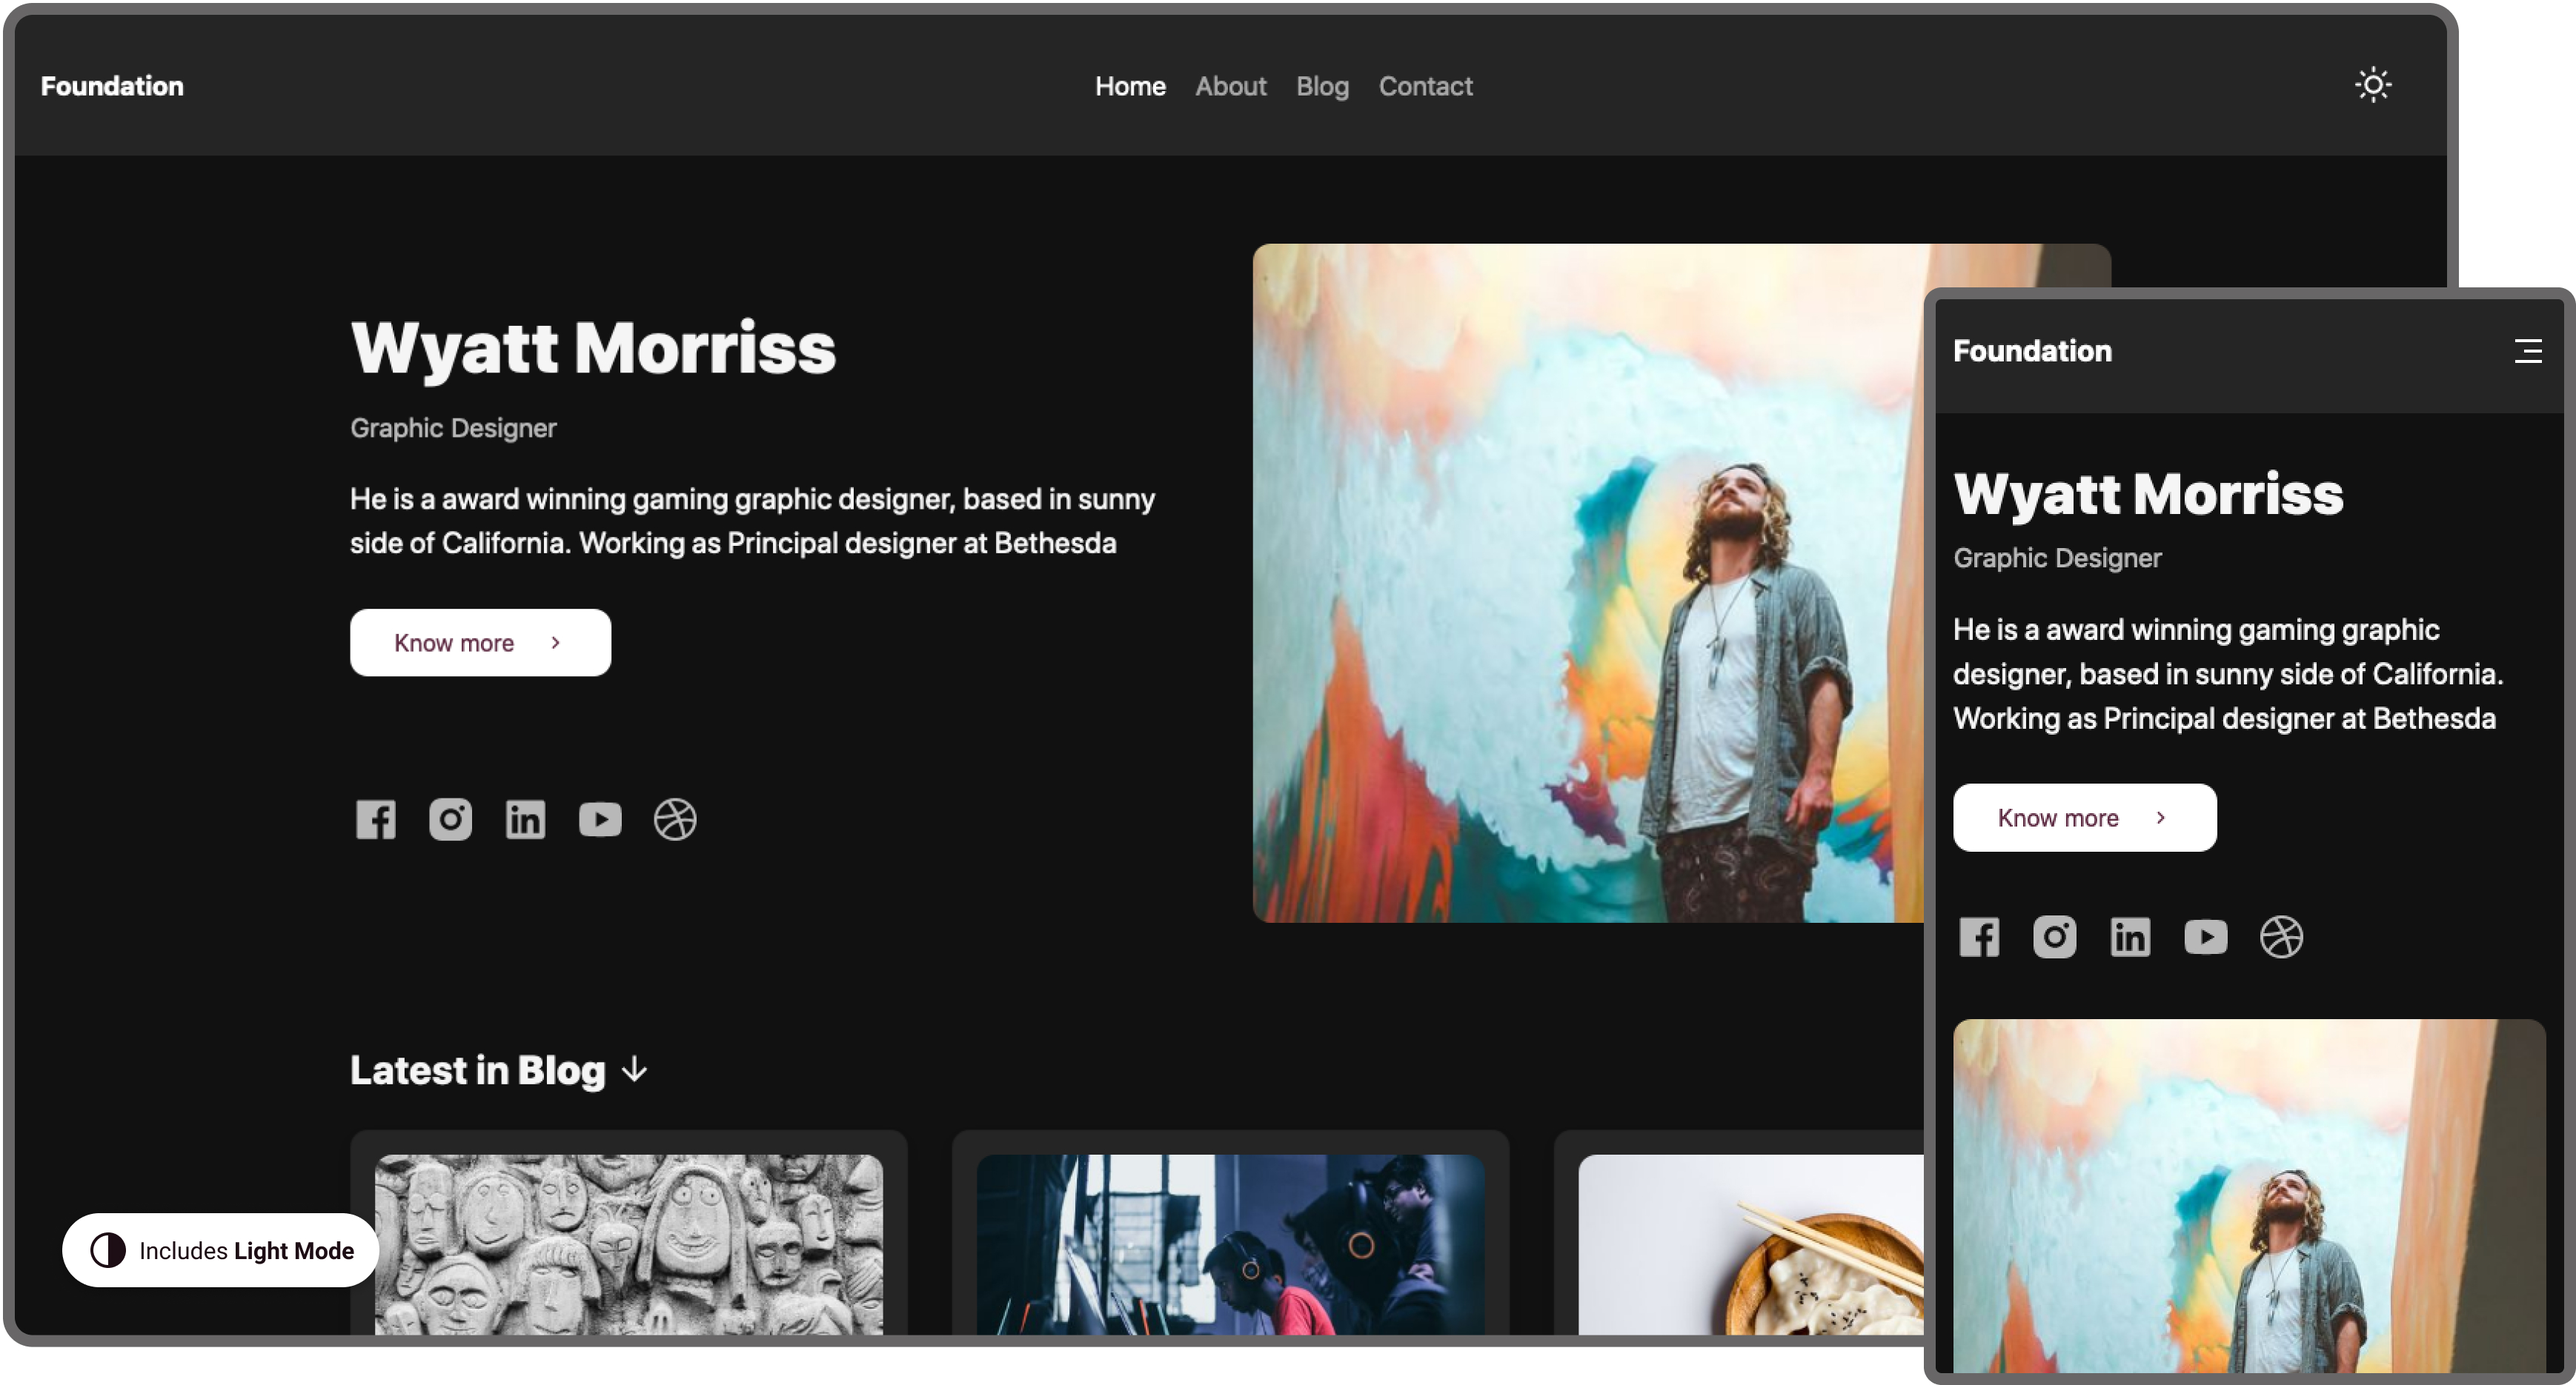
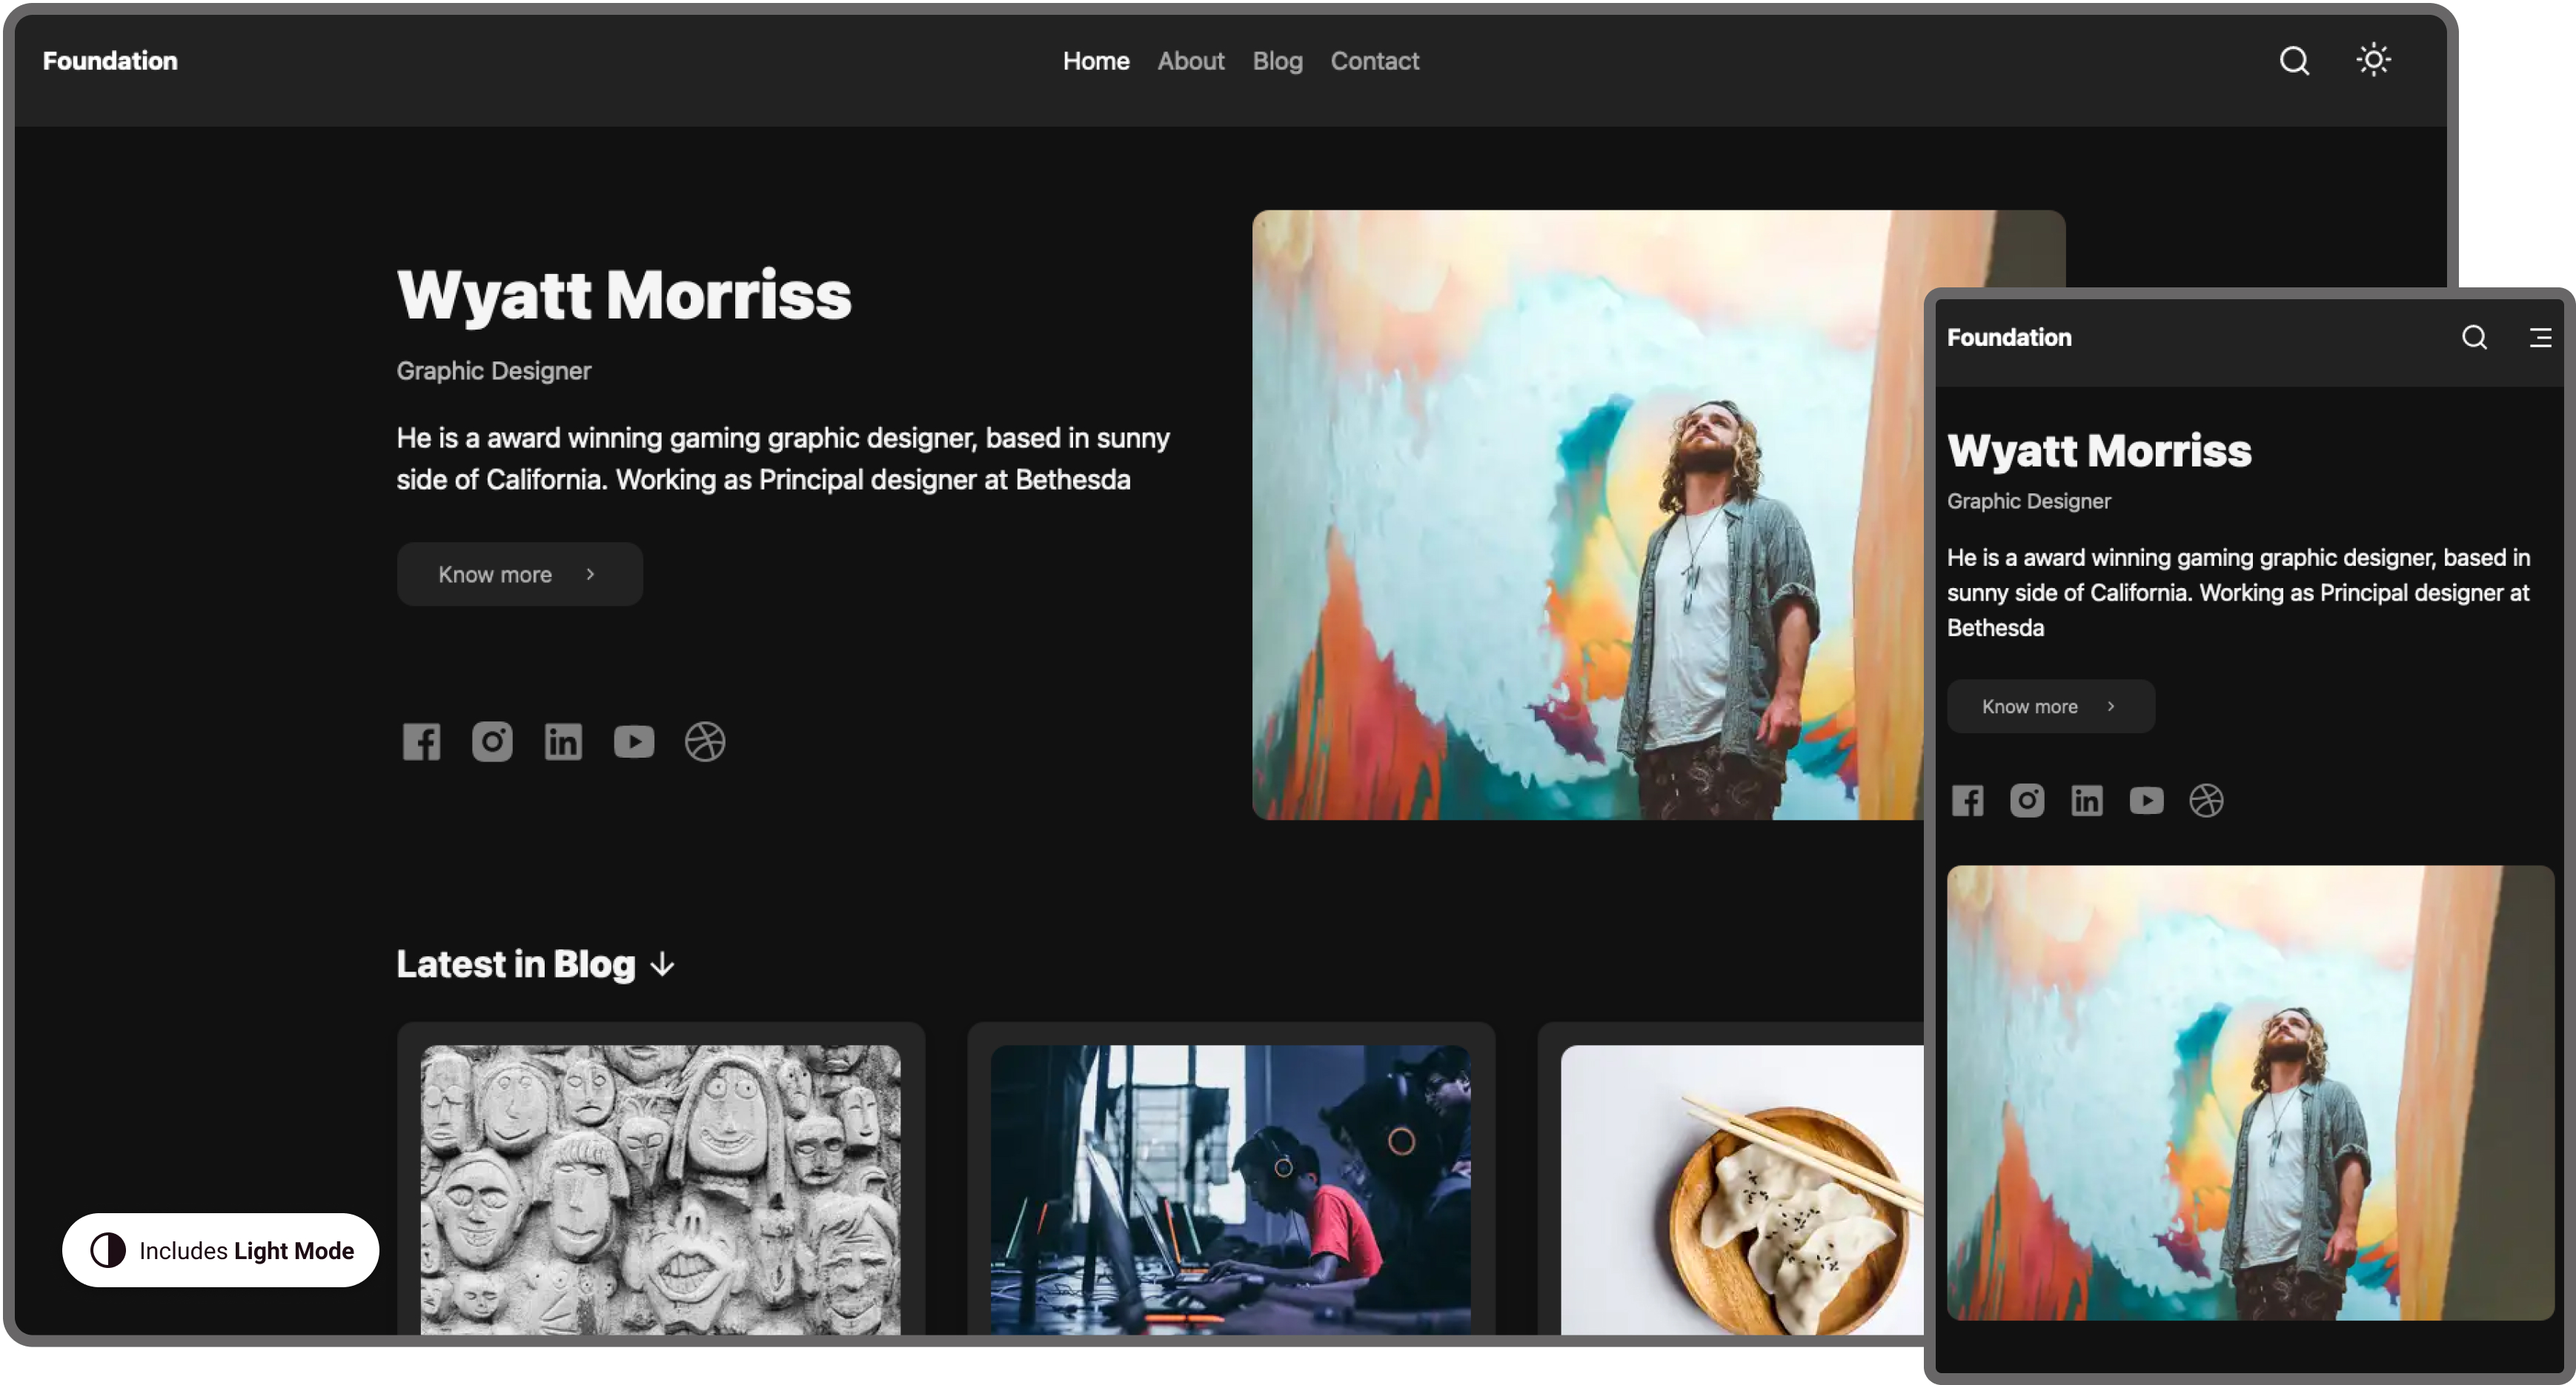
updated foundation

diff --git a/README.md b/README.md
@@ -21,6 +21,12 @@ Need help launching your website? My DM's are open on <a href="https://twitter.c
 - A Blog and Personal website with Netlify CMS.
 - Responsive Web Design
 - Dark / Light Mode
+- Customize theme color from CMS
+
+    ![gatsby-starter-foundation-dark-mode.jpg](https://media.giphy.com/media/Pb4yImVfcF6MDYuuGm/giphy.gif)
+
+- Search bar
+- Customize content of Homepage, About and Contact page.
 - Customize content of Homepage, About and Contact page.
 - Add / Modify / Delete blog posts.
 - Edit website settings, Add Google Analytics and make it your own all with in the CMS.
